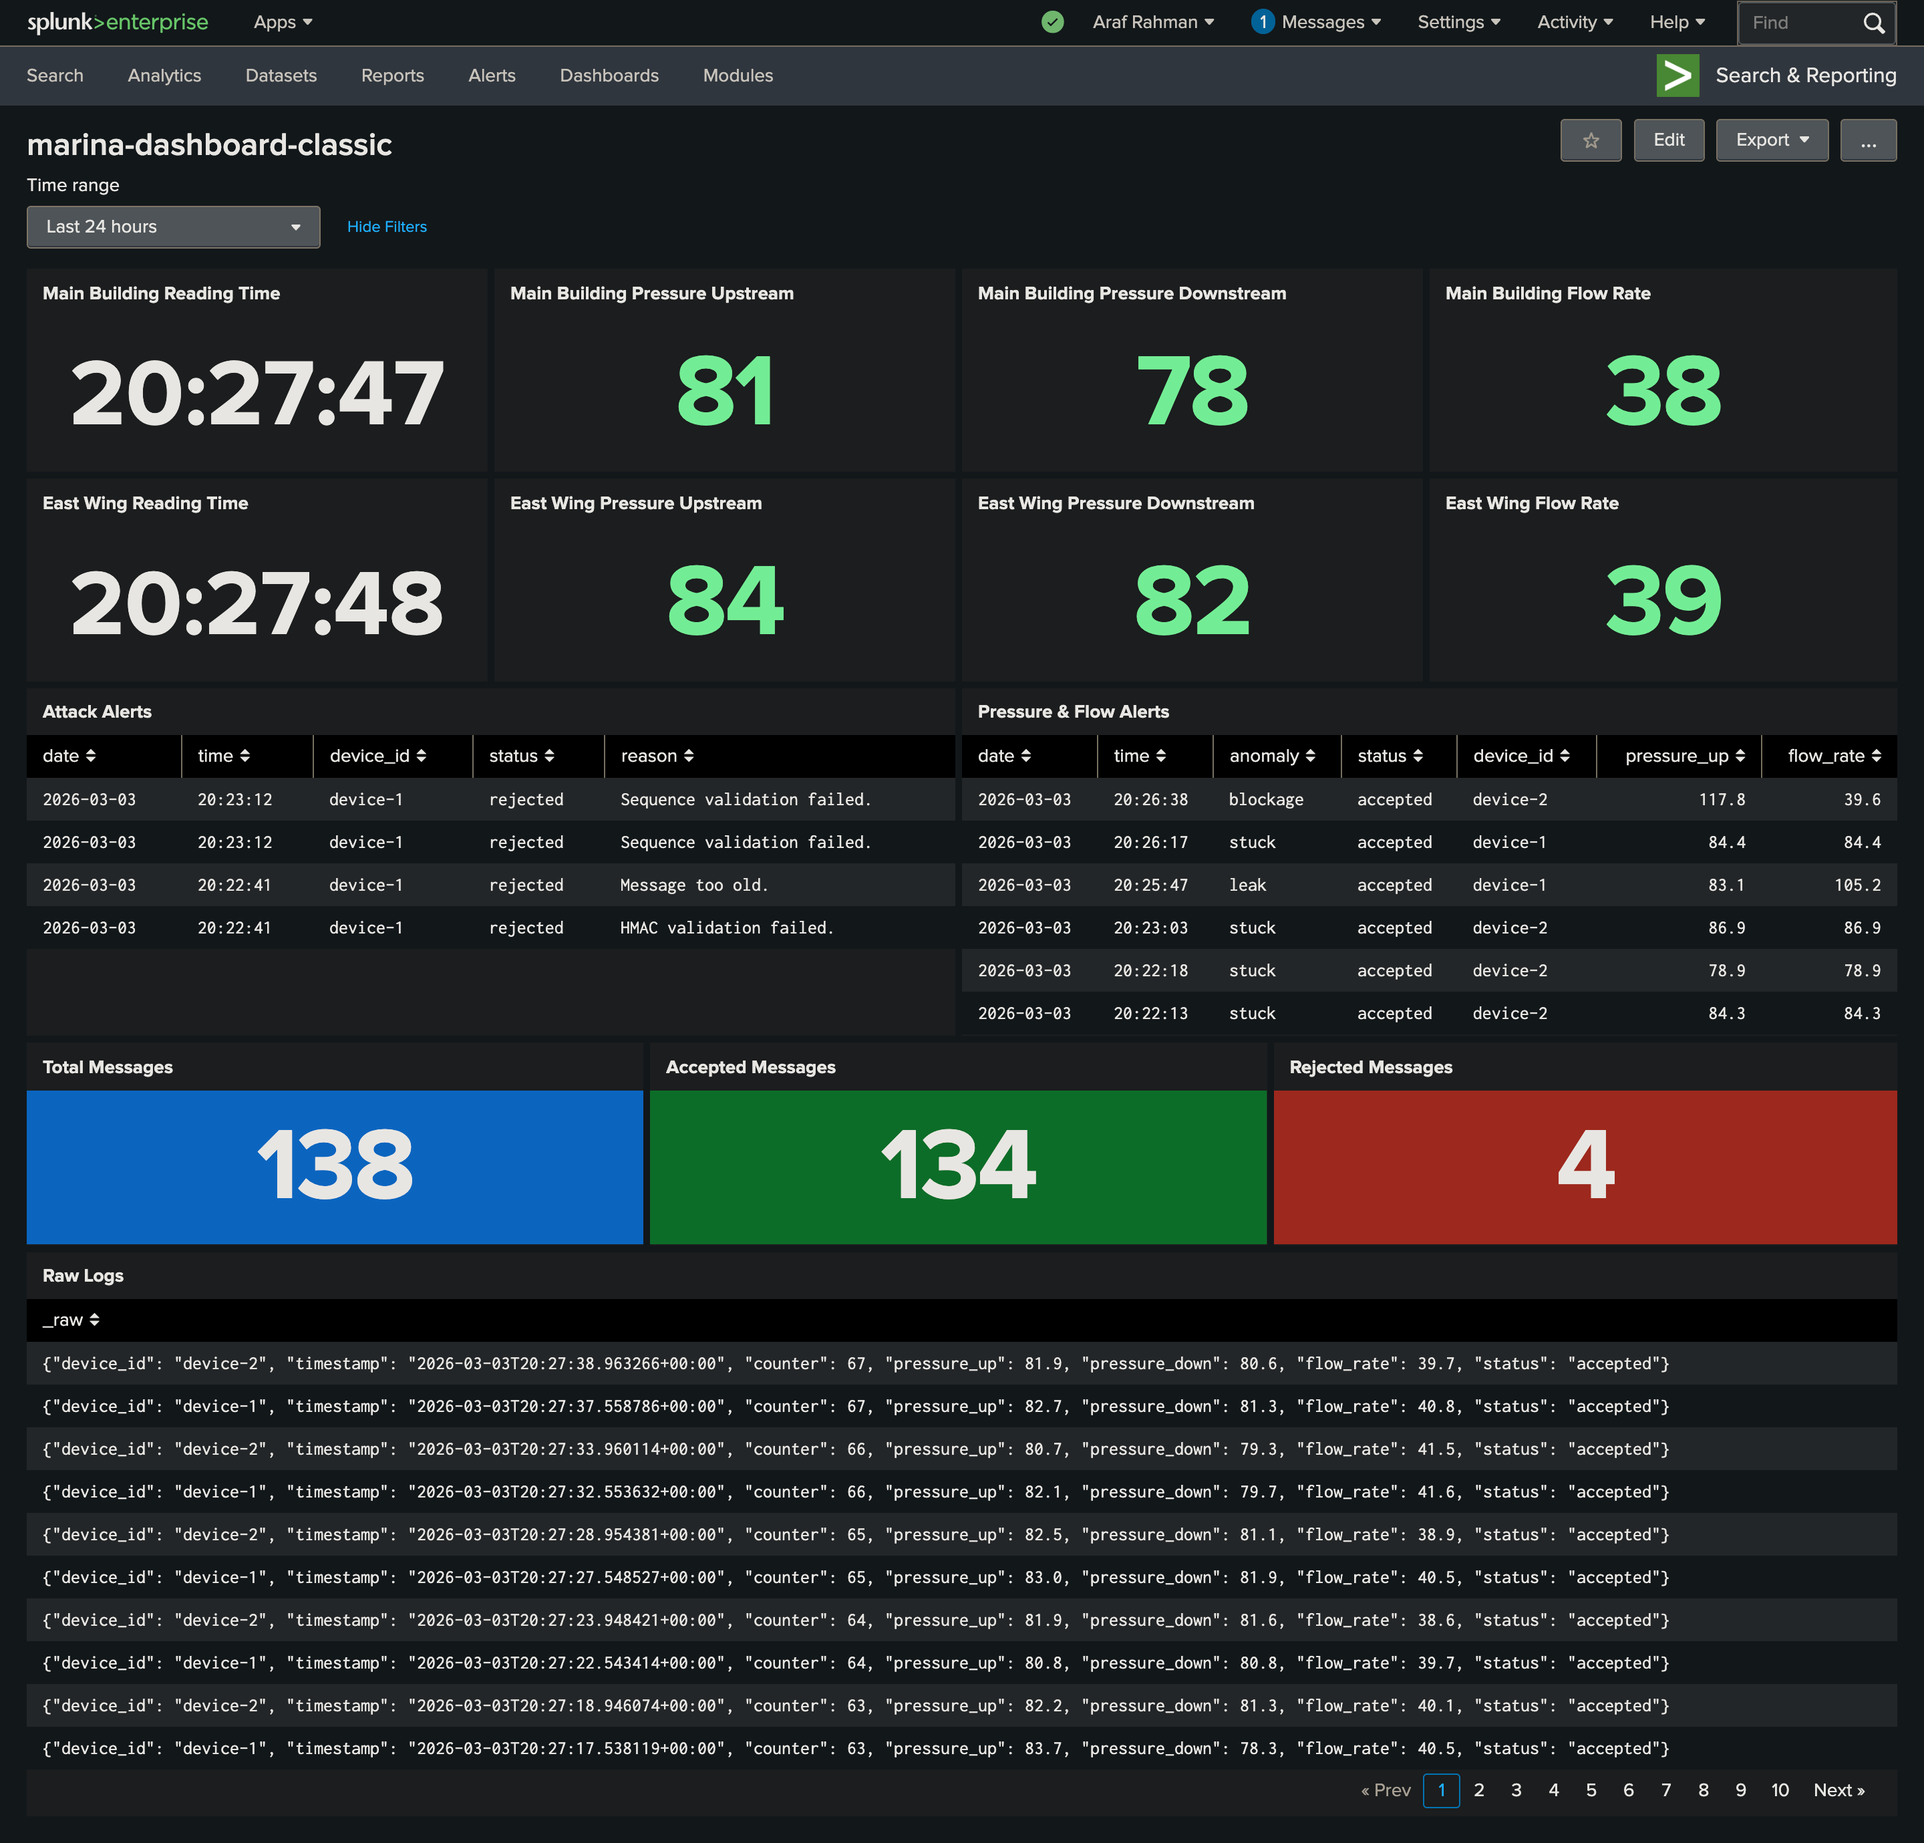
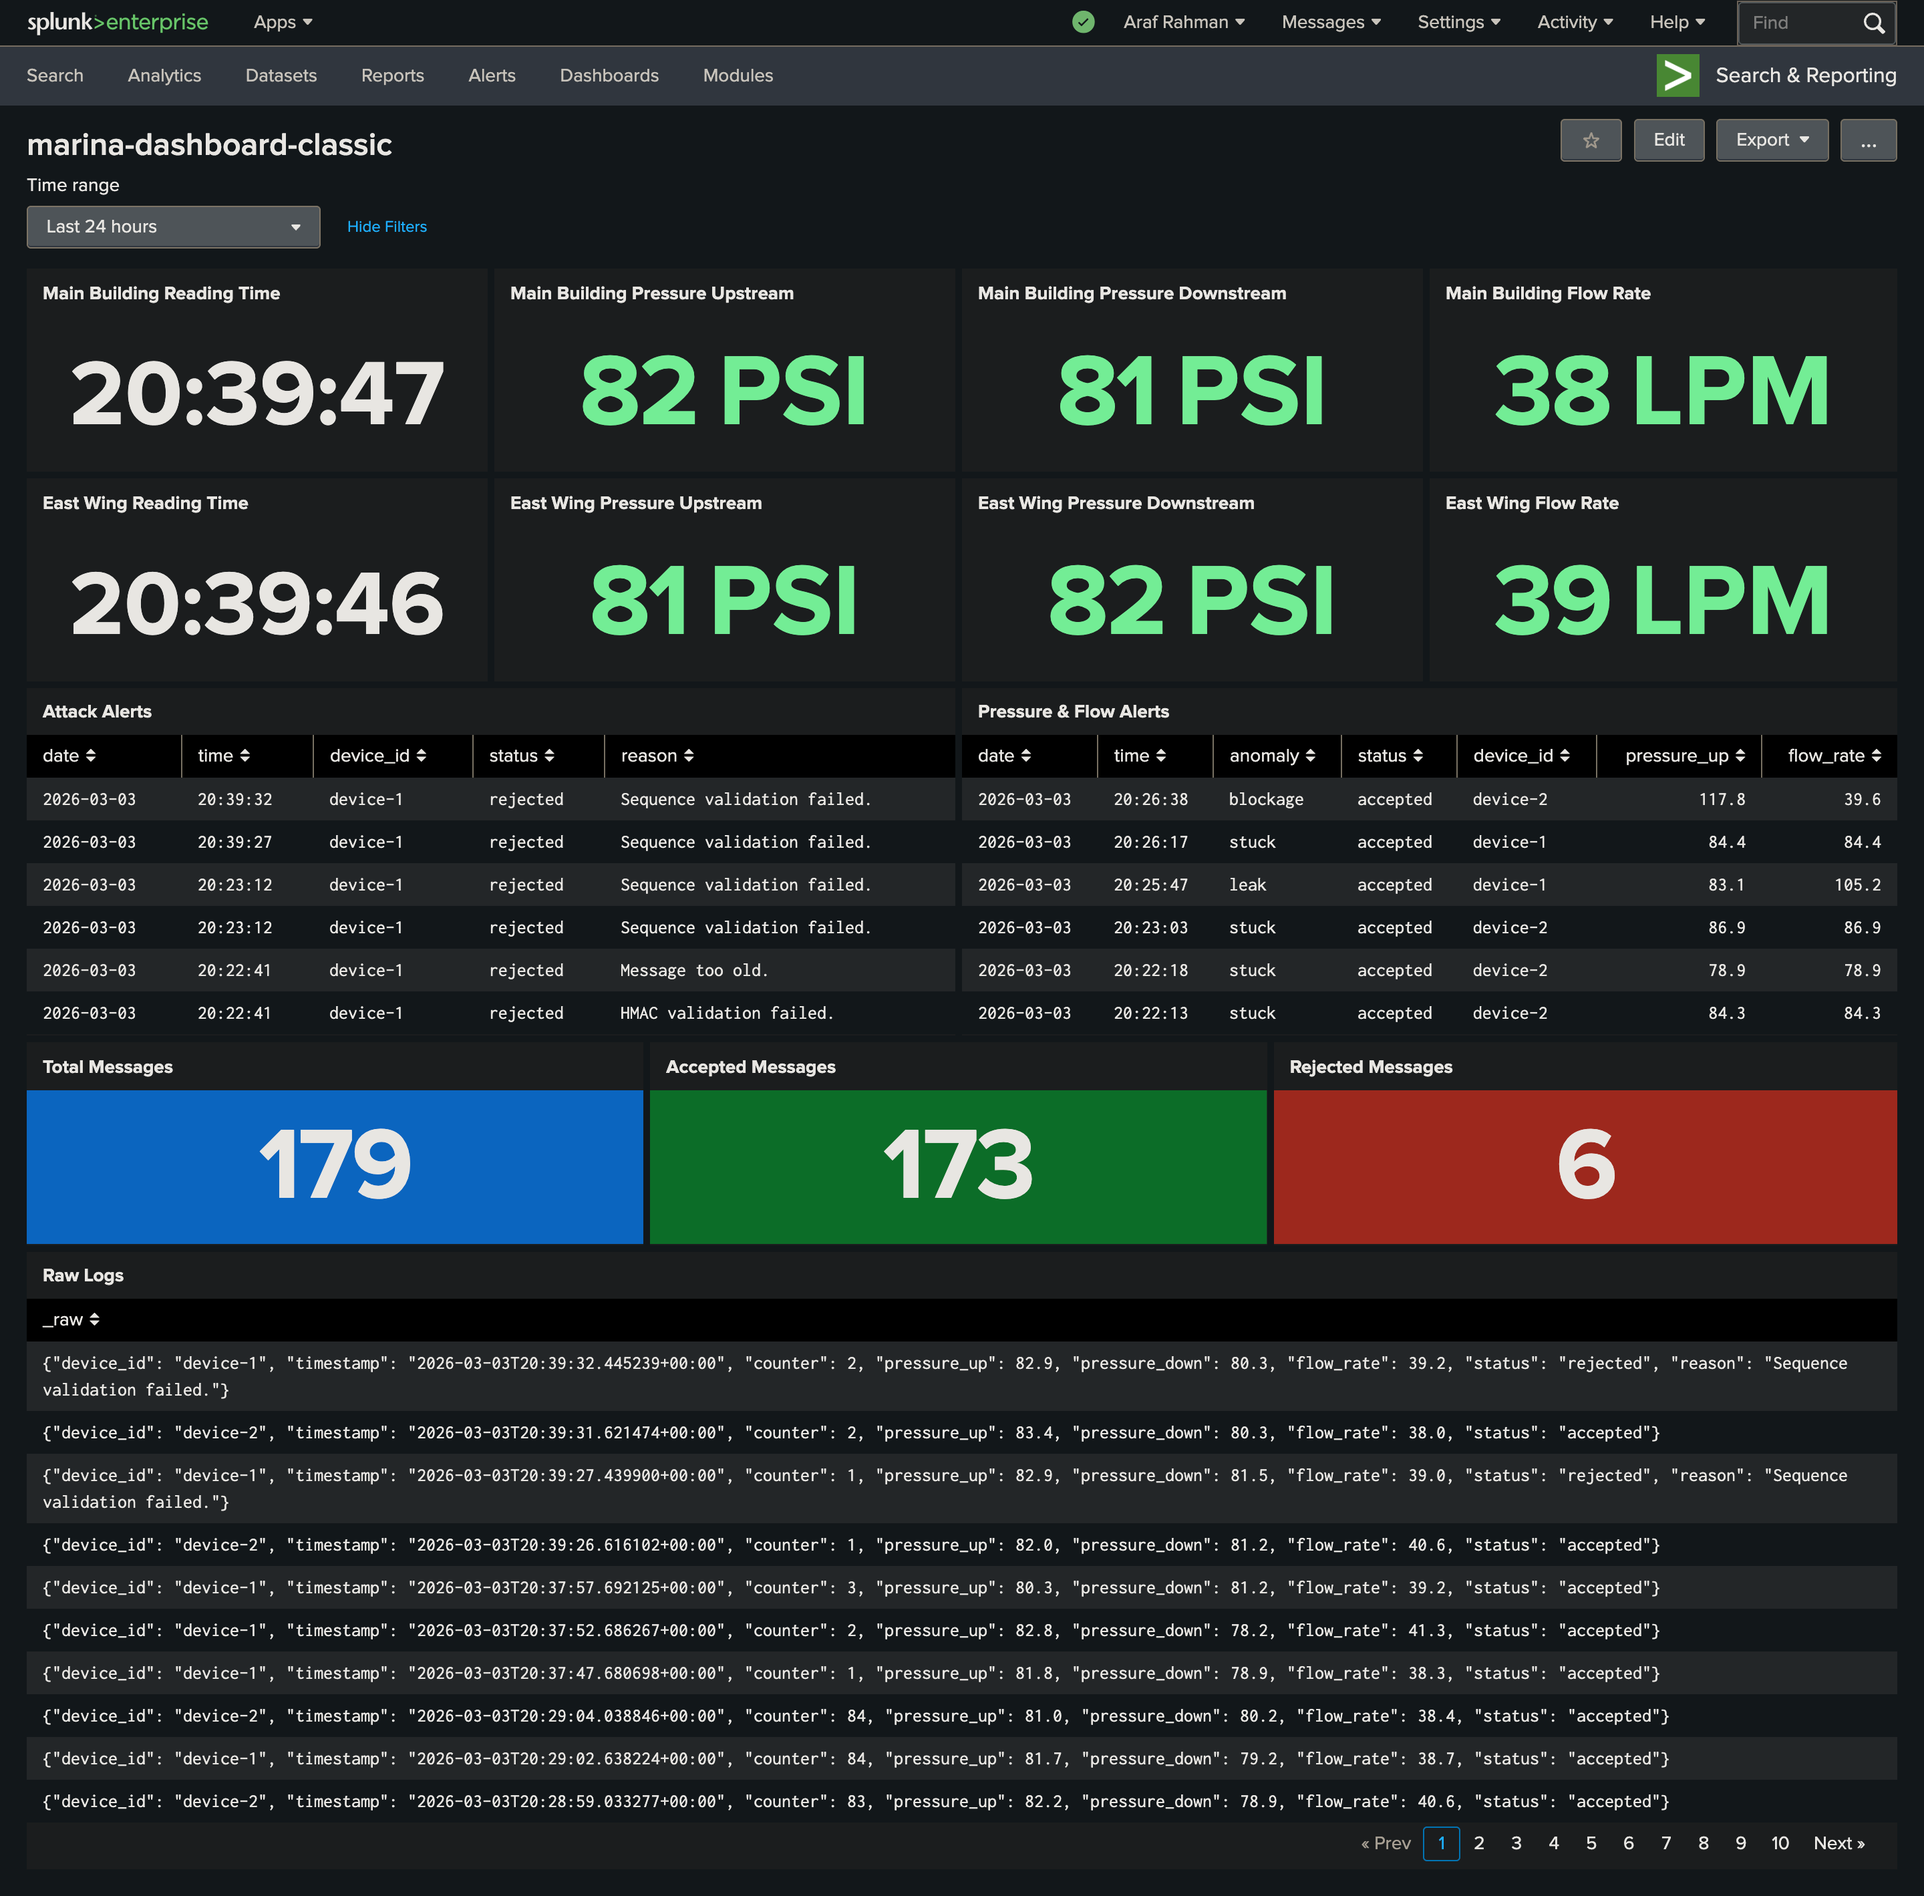
changed to splunk classic dashboard

diff --git a/splunk-dashboard/splunk_dashboard_source.html b/splunk-dashboard/splunk_dashboard_source.html
@@ -1,0 +1,247 @@
+<form version="1.1" theme="dark">
+  <label>marina-dashboard-classic</label>
+  <fieldset submitButton="false">
+    <input type="time" token="time_range1">
+      <label>Time range</label>
+      <default>
+        <earliest>-24h@h</earliest>
+        <latest>now</latest>
+      </default>
+    </input>
+  </fieldset>
+  <row>
+    <panel>
+      <single>
+        <title>Main Building Reading Time</title>
+        <search>
+          <query>index="grand-marina-hotel" device_id="device-1" status="accepted"
+| table time | head 1</query>
+          <earliest>rt-10s</earliest>
+          <latest>rtnow</latest>
+        </search>
+        <option name="drilldown">all</option>
+        <option name="refresh.display">progressbar</option>
+      </single>
+    </panel>
+    <panel>
+      <single>
+        <title>Main Building Pressure Upstream</title>
+        <search>
+          <query>index="grand-marina-hotel" device_id="device-1" status="accepted"
+| table pressure_up |  head 1</query>
+          <earliest>rt-10s</earliest>
+          <latest>rtnow</latest>
+        </search>
+        <option name="colorMode">none</option>
+        <option name="rangeColors">["0x118832","0x118832"]</option>
+        <option name="rangeValues">[0]</option>
+        <option name="refresh.display">progressbar</option>
+        <option name="useColors">1</option>
+      </single>
+    </panel>
+    <panel>
+      <single>
+        <title>Main Building Pressure Downstream</title>
+        <search>
+          <query>index="grand-marina-hotel" device_id="device-1" status="accepted"
+| table pressure_down |  head 1</query>
+          <earliest>rt-10s</earliest>
+          <latest>rtnow</latest>
+        </search>
+        <option name="colorMode">none</option>
+        <option name="rangeColors">["0x118832","0x118832"]</option>
+        <option name="rangeValues">[0]</option>
+        <option name="refresh.display">progressbar</option>
+        <option name="useColors">1</option>
+      </single>
+    </panel>
+    <panel>
+      <single>
+        <title>Main Building Flow Rate</title>
+        <search>
+          <query>index="grand-marina-hotel" device_id="device-1" status="accepted" 
+| table flow_rate |  head 1</query>
+          <earliest>rt-10s</earliest>
+          <latest>rtnow</latest>
+        </search>
+        <option name="drilldown">none</option>
+        <option name="rangeColors">["0x118832","0x118832"]</option>
+        <option name="rangeValues">[0]</option>
+        <option name="refresh.display">progressbar</option>
+        <option name="useColors">1</option>
+      </single>
+    </panel>
+  </row>
+  <row>
+    <panel>
+      <single>
+        <title>East Wing Reading Time</title>
+        <search>
+          <query>index="grand-marina-hotel" device_id="device-2" status="accepted"
+| table time | head 1</query>
+          <earliest>rt-10s</earliest>
+          <latest>rtnow</latest>
+        </search>
+        <option name="drilldown">all</option>
+        <option name="refresh.display">progressbar</option>
+      </single>
+    </panel>
+    <panel>
+      <single>
+        <title>East Wing Pressure Upstream</title>
+        <search>
+          <query>index="grand-marina-hotel" device_id="device-2" status="accepted"
+| table pressure_up |  head 1</query>
+          <earliest>rt-10s</earliest>
+          <latest>rtnow</latest>
+        </search>
+        <option name="rangeColors">["0x118832","0x118832"]</option>
+        <option name="rangeValues">[0]</option>
+        <option name="refresh.display">progressbar</option>
+        <option name="useColors">1</option>
+      </single>
+    </panel>
+    <panel>
+      <single>
+        <title>East Wing Pressure Downstream</title>
+        <search>
+          <query>index="grand-marina-hotel" device_id="device-2" status="accepted"
+| table pressure_down |  head 1</query>
+          <earliest>rt-10s</earliest>
+          <latest>rtnow</latest>
+        </search>
+        <option name="rangeColors">["0x118832","0x118832"]</option>
+        <option name="rangeValues">[0]</option>
+        <option name="refresh.display">progressbar</option>
+        <option name="useColors">1</option>
+      </single>
+    </panel>
+    <panel>
+      <single>
+        <title>East Wing Flow Rate</title>
+        <search>
+          <query>index="grand-marina-hotel" device_id="device-2" status="accepted" 
+| table flow_rate |  head 1</query>
+          <earliest>rt-10s</earliest>
+          <latest>rtnow</latest>
+        </search>
+        <option name="drilldown">none</option>
+        <option name="rangeColors">["0x118832","0x118832"]</option>
+        <option name="rangeValues">[0]</option>
+        <option name="refresh.display">progressbar</option>
+        <option name="useColors">1</option>
+      </single>
+    </panel>
+  </row>
+  <row>
+    <panel>
+      <table>
+        <title>Attack Alerts</title>
+        <search>
+          <query>index="grand-marina-hotel" status="rejected"
+|  table date time device_id status reason 
+|  sort asc - time</query>
+          <earliest>$time_range1.earliest$</earliest>
+          <latest>$time_range1.latest$</latest>
+          <refresh>30s</refresh>
+          <refreshType>delay</refreshType>
+        </search>
+        <option name="drilldown">none</option>
+        <option name="refresh.display">progressbar</option>
+      </table>
+    </panel>
+    <panel>
+      <table>
+        <title>Pressure &amp; Flow Alerts</title>
+        <search>
+          <query>index="grand-marina-hotel" status="accepted" (pressure_up&gt;=100 OR pressure_up&lt;=60 OR flow_rate&gt;=60 OR flow_rate&lt;=20  OR (pressure_up=pressure_down AND pressure_down=flow_rate))
+|  table date time anomaly status device_id pressure_up flow_rate
+|  sort asc - time</query>
+          <earliest>$time_range1.earliest$</earliest>
+          <latest>$time_range1.latest$</latest>
+          <refresh>30s</refresh>
+          <refreshType>delay</refreshType>
+        </search>
+        <option name="drilldown">none</option>
+        <option name="refresh.display">progressbar</option>
+      </table>
+    </panel>
+  </row>
+  <row>
+    <panel>
+      <single>
+        <title>Total Messages</title>
+        <search>
+          <query>index="grand-marina-hotel" status="rejected" OR status="accepted"
+|  stats count</query>
+          <earliest>$time_range1.earliest$</earliest>
+          <latest>$time_range1.latest$</latest>
+          <refresh>30s</refresh>
+          <refreshType>delay</refreshType>
+        </search>
+        <option name="colorMode">block</option>
+        <option name="drilldown">none</option>
+        <option name="rangeColors">["0x1182f3","0x1182f3"]</option>
+        <option name="rangeValues">[0]</option>
+        <option name="refresh.display">progressbar</option>
+        <option name="useColors">1</option>
+      </single>
+    </panel>
+    <panel>
+      <single>
+        <title>Accepted Messages</title>
+        <search>
+          <query>index="grand-marina-hotel" status="accepted"
+|  stats count</query>
+          <earliest>$time_range1.earliest$</earliest>
+          <latest>$time_range1.latest$</latest>
+          <refresh>30s</refresh>
+          <refreshType>delay</refreshType>
+        </search>
+        <option name="colorMode">block</option>
+        <option name="drilldown">none</option>
+        <option name="rangeColors">["0x118832","0x118832"]</option>
+        <option name="rangeValues">[0]</option>
+        <option name="refresh.display">progressbar</option>
+        <option name="useColors">1</option>
+      </single>
+    </panel>
+    <panel>
+      <single>
+        <title>Rejected Messages</title>
+        <search>
+          <query>index="grand-marina-hotel" status="rejected"
+|  stats count</query>
+          <earliest>$time_range1.earliest$</earliest>
+          <latest>$time_range1.latest$</latest>
+          <refresh>30s</refresh>
+          <refreshType>delay</refreshType>
+        </search>
+        <option name="colorMode">block</option>
+        <option name="drilldown">none</option>
+        <option name="rangeColors">["0xd41f1f","0xdc4e41"]</option>
+        <option name="rangeValues">[0]</option>
+        <option name="refresh.display">progressbar</option>
+        <option name="useColors">1</option>
+      </single>
+    </panel>
+  </row>
+  <row>
+    <panel>
+      <table>
+        <title>Raw Logs</title>
+        <search>
+          <query>index="grand-marina-hotel"
+| sort - _time
+| table _raw</query>
+          <earliest>$time_range1.earliest$</earliest>
+          <latest>$time_range1.latest$</latest>
+          <refresh>30s</refresh>
+          <refreshType>delay</refreshType>
+        </search>
+        <option name="drilldown">none</option>
+        <option name="refresh.display">progressbar</option>
+      </table>
+    </panel>
+  </row>
+</form>

diff --git a/splunk-dashboard/readme.md b/splunk-dashboard/readme.md
@@ -1,9 +1,11 @@
 # Splunk Dashboard
-![dashboard](media/dashboard.png)
+![dashboard](media/splunk_dashboard.png)
 
 # Security Added to Pipeline
-* Live monitoring of sensor readings to check if pressure, flow rate exceeds or falls below a certain range.
-* Security alerts about rejected messages / attack attempts..
+* Live monitoring of sensor readings (pressure upstream, downstream, flow rate) in 2 different blocks.
+* View rejected attack attempts.
+* View water system issues (leaks, blockage, stuck sensor)
+* View total processed, accepted, rejected messages in a time range.
 
 # How it Works
 1. Subscriber appends received messages to messages.json file. 
@@ -15,8 +17,8 @@
     * Download Splunk Enterprise
     * Create index: grand-marina-hotel
     * Set up messages.json local file monitoring and dump to grand-marina-hotel index.
-    * Import dashboard: splunk_dashboard.json
+    * Create dashboard, paste source code: [splunk_dashboard_source.html](splunk_dashboard_source.html)
 2. Run mosquitto broker
 3. Run [subscriber.py](subscriber.py)
 4. Run [publisher_device1.py](publisher_device1.py) and [publisher_device2.py](publisher_device2.py) to view live readings.
-5. Run simulate_attacks.py to view security alerts.
+5. Run [simulate_attacks.py](simulate_attacks.py) to simulate attack alerts.
